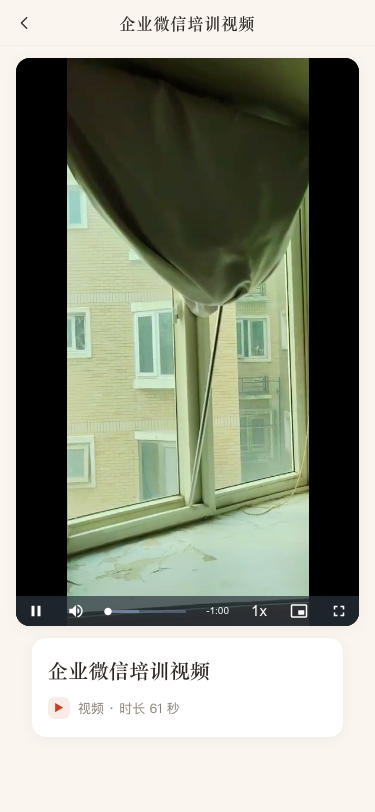
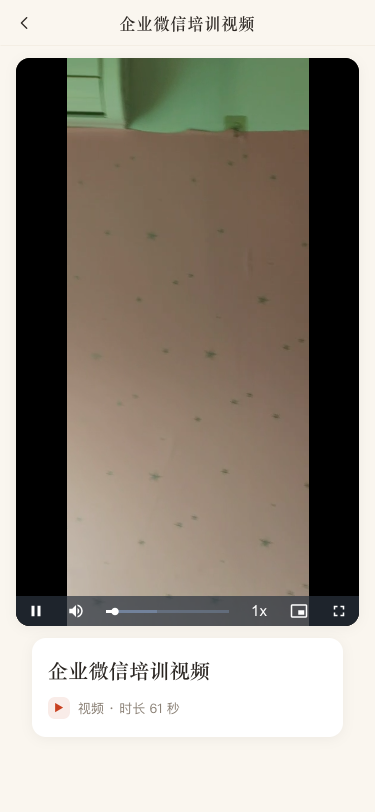
feat(ui): 时间显示改为当前播放位置/视频总时长并常驻控制条
- videojs 选项：inactivityTimeout 0（禁用无操作自动隐藏，控制条常驻）
- controlBar：remainingTimeDisplay 关闭，currentTimeDisplay/durationDisplay 开启
  （-1:00 剩余格式 → 0:04 / 1:01 当前/总时长格式）
- Detail 组件测试同步锁定新初始化参数；刷新 ui-video.png 截图
- 实证：静置 4.5s 无操作后控制条仍 display:flex / user-active

diff --git a/src/views/__tests__/Detail.test.ts b/src/views/__tests__/Detail.test.ts
@@ -115,17 +115,22 @@ describe('Detail - video 形态', () => {
     })
   })
 
-  it('videojs 初始化：controls + playbackRates [0.5,1,1.25,1.5,2] + mp4 source', async () => {
+  it('videojs 初始化：controls + playbackRates [0.5,1,1.25,1.5,2] + mp4 source + 常驻控制条与当前/总时长显示', async () => {
     await mountDetail('/detail/video-7092?userid=u9')
     expect(videojsFactory).toHaveBeenCalledTimes(1)
     const options = videojsFactory.mock.calls[0][1] as {
       controls: boolean
       playbackRates: number[]
       sources: Array<{ src: string; type: string }>
+      inactivityTimeout: number
+      controlBar: { remainingTimeDisplay: boolean; currentTimeDisplay: boolean; durationDisplay: boolean }
     }
     expect(options.controls).toBe(true)
     expect(options.playbackRates).toEqual([0.5, 1, 1.25, 1.5, 2])
     expect(options.sources).toEqual([{ src: '/source/7092_1790088875.mp4', type: 'video/mp4' }])
+    // 常驻：禁用无操作自动隐藏；时间格式：当前/总时长（关闭剩余时间显示）
+    expect(options.inactivityTimeout).toBe(0)
+    expect(options.controlBar).toEqual({ remainingTimeDisplay: false, currentTimeDisplay: true, durationDisplay: true })
   })
 
   it('续播反显：player ready 后 currentTime(服务端 position)', async () => {

diff --git a/src/views/Detail.vue b/src/views/Detail.vue
@@ -59,7 +59,15 @@ onMounted(async () => {
     player = videojs(el, {
       controls: true,
       playbackRates: [0.5, 1, 1.25, 1.5, 2],
-      sources: [{ src: item.content.video_url ?? '', type: 'video/mp4' }]
+      sources: [{ src: item.content.video_url ?? '', type: 'video/mp4' }],
+      // 常驻控制条：禁用无操作自动隐藏（时间/进度条一直可见）
+      inactivityTimeout: 0,
+      // 时间显示：当前播放位置 / 视频总时长（替代默认的剩余时间 -1:00 格式）
+      controlBar: {
+        remainingTimeDisplay: false,
+        currentTimeDisplay: true,
+        durationDisplay: true
+      }
     })
     // 续播反显：ready 后 currentTime(服务端 position)
     player.ready(() => {
